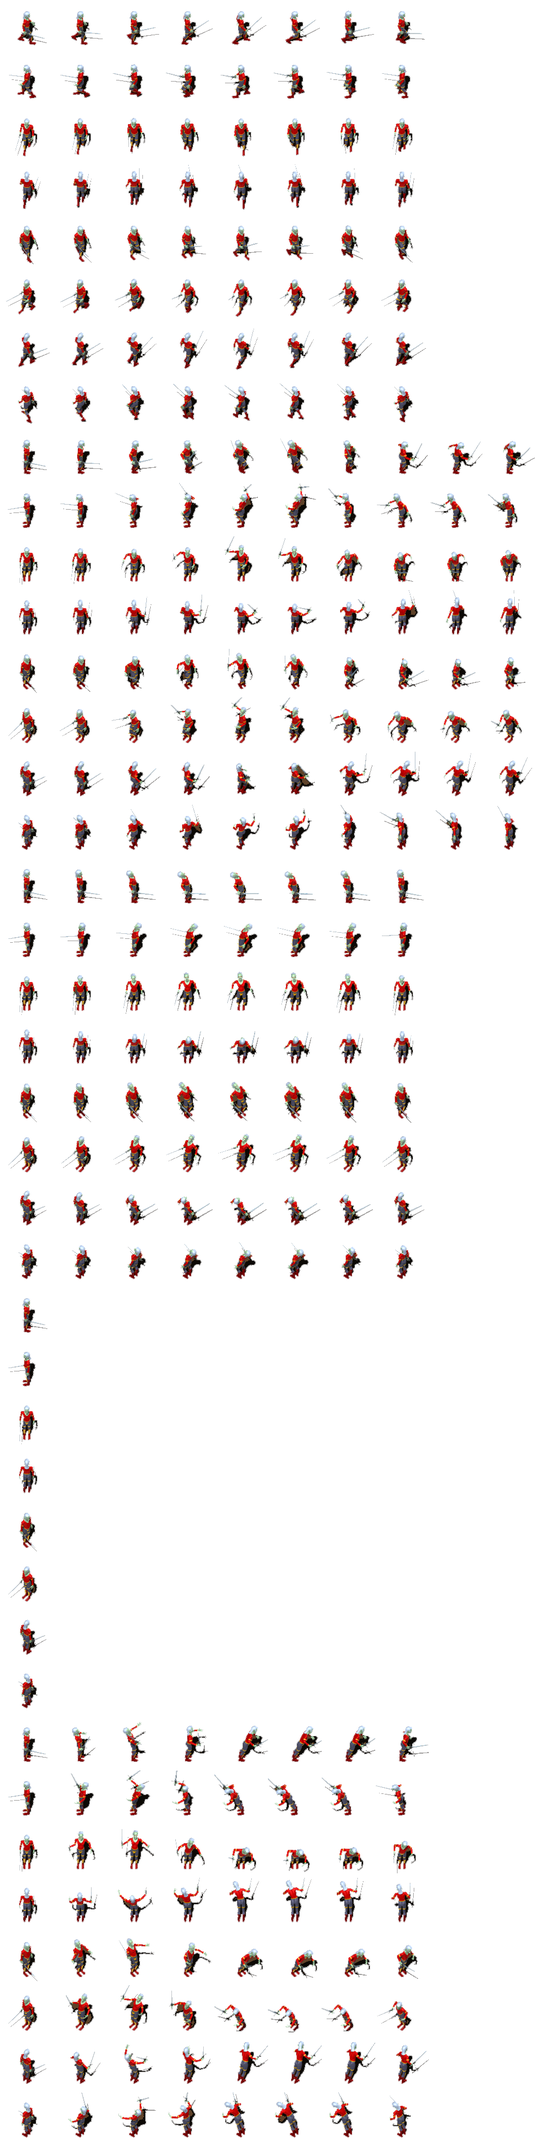
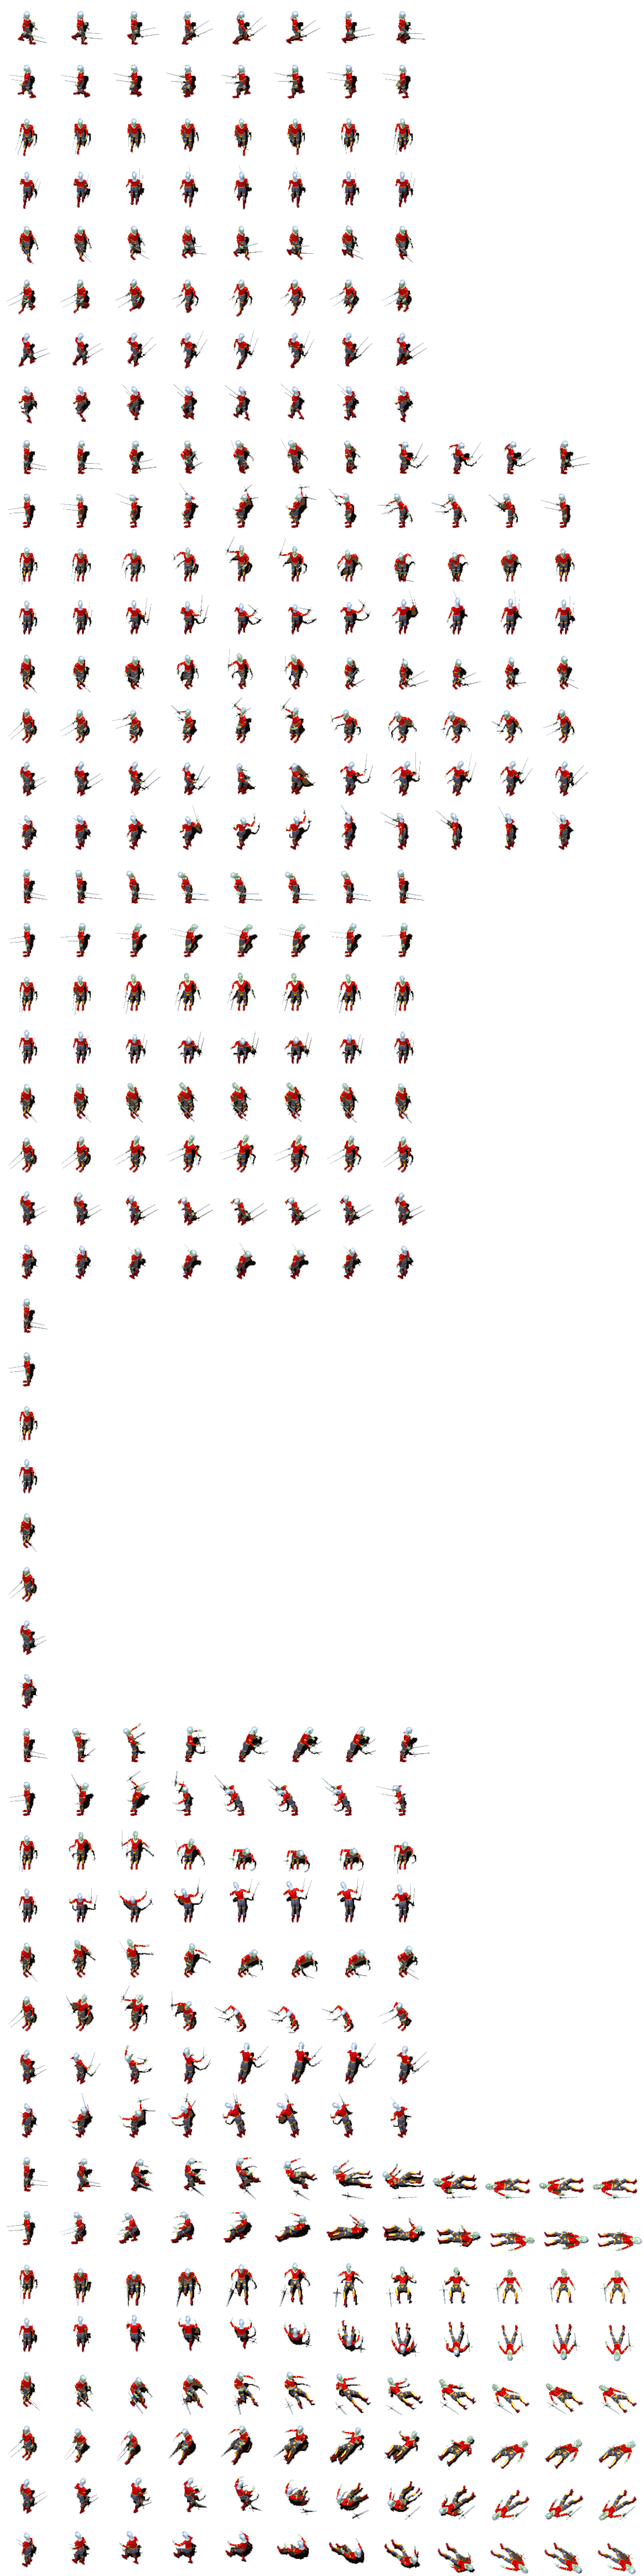
Character animation added (sorcerer)
-Moves
-Attack
-Hits
-Idles

diff --git a/RPG-Game/Diablo/GUI/Player.cs b/RPG-Game/Diablo/GUI/Player.cs
@@ -13,6 +13,8 @@ namespace Diablo.GUI
         float playerSpeed = 100f;
         private bool attacking = false;
         private bool isHitted = false;
+        private bool isDead = false;
+        private bool castSPell = false;
 
         public Player(Vector2 position)
             : base(position)
@@ -26,22 +28,22 @@ namespace Diablo.GUI
             this.AddAnimation(8, (5 * FrameHeight), 0, AnimationType.MoveDownLeft, FrameWidth, FrameHeight, new Vector2(0, 0));
             this.AddAnimation(8, (6 * FrameHeight), 0, AnimationType.MoveUpRight, FrameWidth, FrameHeight, new Vector2(0, 0));
             this.AddAnimation(8, (7 * FrameHeight), 0, AnimationType.MoveUpLeft, FrameWidth, FrameHeight, new Vector2(0, 0));
-            this.AddAnimation(11, (8 * FrameHeight), 0, AnimationType.AttackRight, FrameWidth, FrameHeight, new Vector2(0, 0));
-            this.AddAnimation(11, (9 * FrameHeight), 0, AnimationType.AttackLeft, FrameWidth, FrameHeight, new Vector2(0, 0));
-            this.AddAnimation(11, (10 * FrameHeight), 0, AnimationType.AttackDown, FrameWidth, FrameHeight, new Vector2(0, 0));
-            this.AddAnimation(11, (11 * FrameHeight), 0, AnimationType.AttackUp, FrameWidth, FrameHeight, new Vector2(0, 0));
-            this.AddAnimation(11, (12 * FrameHeight), 0, AnimationType.AttackDownRight, FrameWidth, FrameHeight, new Vector2(0, 0));
-            this.AddAnimation(11, (13 * FrameHeight), 0, AnimationType.AttackDownLeft, FrameWidth, FrameHeight, new Vector2(0, 0));
-            this.AddAnimation(11, (14 * FrameHeight), 0, AnimationType.AttackUpRight, FrameWidth, FrameHeight, new Vector2(0, 0));
-            this.AddAnimation(11, (15 * FrameHeight), 0, AnimationType.AttackUpLeft, FrameWidth, FrameHeight, new Vector2(0, 0));
-            this.AddAnimation(8, (16 * FrameHeight), 0, AnimationType.HittedRight, FrameWidth, FrameHeight, new Vector2(0, 0));
-            this.AddAnimation(8, (17 * FrameHeight), 0, AnimationType.HittedLeft, FrameWidth, FrameHeight, new Vector2(0, 0));
-            this.AddAnimation(8, (18 * FrameHeight), 0, AnimationType.HittedDown, FrameWidth, FrameHeight, new Vector2(0, 0));
-            this.AddAnimation(8, (19 * FrameHeight), 0, AnimationType.HittedUp, FrameWidth, FrameHeight, new Vector2(0, 0));
-            this.AddAnimation(8, (20 * FrameHeight), 0, AnimationType.HittedDownRight, FrameWidth, FrameHeight, new Vector2(0, 0));
-            this.AddAnimation(8, (21 * FrameHeight), 0, AnimationType.HittedDownLeft, FrameWidth, FrameHeight, new Vector2(0, 0));
-            this.AddAnimation(8, (22 * FrameHeight), 0, AnimationType.HittedUpRight, FrameWidth, FrameHeight, new Vector2(0, 0));
-            this.AddAnimation(8, (23 * FrameHeight), 0, AnimationType.HittedUpLeft, FrameWidth, FrameHeight, new Vector2(0, 0));
+            this.AddAnimation(13, (8 * FrameHeight), 0, AnimationType.AttackRight, FrameWidth, FrameHeight, new Vector2(0, 0));
+            this.AddAnimation(13, (9 * FrameHeight), 0, AnimationType.AttackLeft, FrameWidth, FrameHeight, new Vector2(0, 0));
+            this.AddAnimation(13, (10 * FrameHeight), 0, AnimationType.AttackDown, FrameWidth, FrameHeight, new Vector2(0, 0));
+            this.AddAnimation(13, (11 * FrameHeight), 0, AnimationType.AttackUp, FrameWidth, FrameHeight, new Vector2(0, 0));
+            this.AddAnimation(13, (12 * FrameHeight), 0, AnimationType.AttackDownRight, FrameWidth, FrameHeight, new Vector2(0, 0));
+            this.AddAnimation(13, (13 * FrameHeight), 0, AnimationType.AttackDownLeft, FrameWidth, FrameHeight, new Vector2(0, 0));
+            this.AddAnimation(13, (14 * FrameHeight), 0, AnimationType.AttackUpRight, FrameWidth, FrameHeight, new Vector2(0, 0));
+            this.AddAnimation(13, (15 * FrameHeight), 0, AnimationType.AttackUpLeft, FrameWidth, FrameHeight, new Vector2(0, 0));
+            this.AddAnimation(9, (16 * FrameHeight), 0, AnimationType.HittedRight, FrameWidth, FrameHeight, new Vector2(0, 0));
+            this.AddAnimation(9, (17 * FrameHeight), 0, AnimationType.HittedLeft, FrameWidth, FrameHeight, new Vector2(0, 0));
+            this.AddAnimation(9, (18 * FrameHeight), 0, AnimationType.HittedDown, FrameWidth, FrameHeight, new Vector2(0, 0));
+            this.AddAnimation(9, (19 * FrameHeight), 0, AnimationType.HittedUp, FrameWidth, FrameHeight, new Vector2(0, 0));
+            this.AddAnimation(9, (20 * FrameHeight), 0, AnimationType.HittedDownRight, FrameWidth, FrameHeight, new Vector2(0, 0));
+            this.AddAnimation(9, (21 * FrameHeight), 0, AnimationType.HittedDownLeft, FrameWidth, FrameHeight, new Vector2(0, 0));
+            this.AddAnimation(9, (22 * FrameHeight), 0, AnimationType.HittedUpRight, FrameWidth, FrameHeight, new Vector2(0, 0));
+            this.AddAnimation(9, (23 * FrameHeight), 0, AnimationType.HittedUpLeft, FrameWidth, FrameHeight, new Vector2(0, 0));
             this.AddAnimation(1, (24 * FrameHeight), 0, AnimationType.IdleRight, FrameWidth, FrameHeight, new Vector2(0, 0));
             this.AddAnimation(1, (25 * FrameHeight), 0, AnimationType.IdleLeft, FrameWidth, FrameHeight, new Vector2(0, 0));
             this.AddAnimation(1, (26 * FrameHeight), 0, AnimationType.IdleDown, FrameWidth, FrameHeight, new Vector2(0, 0));
@@ -57,7 +59,7 @@ namespace Diablo.GUI
 
         public void LoadContentent(ContentManager contentManager)
         {
-            this.sTexture = contentManager.Load<Texture2D>(@"res/characters/rogue.png");
+            this.sTexture = contentManager.Load<Texture2D>(@"res/characters/sorcerer.png");
         }
         public override void Update(GameTime gameTime)
         {
@@ -74,7 +76,7 @@ namespace Diablo.GUI
         }
         private void HandleInput(KeyboardState keyState)
         {
-            if (!attacking && !isHitted)
+            if (!attacking && !isHitted&&!isDead)
             {
                 if (keyState.IsKeyDown(Keys.W))
                 {
@@ -165,7 +167,7 @@ namespace Diablo.GUI
                     }
                 }
             }
-            if (keyState.IsKeyDown(Keys.Space) && !isHitted)
+            if (keyState.IsKeyDown(Keys.Space) && !isHitted && !isDead)
             {
                 if (this.currentAnimation.ToString().Contains("Up"))
                 {
@@ -215,7 +217,7 @@ namespace Diablo.GUI
                 }
                 this.attacking = true;
             }
-            else if (!attacking && !isHitted)
+            else if (!attacking && !isHitted && !isDead)
             {
                 if (this.currentAnimation.ToString().Contains("Up"))
                 {
@@ -256,7 +258,7 @@ namespace Diablo.GUI
                     this.PlayAnimation(AnimationType.IdleLeft);
                 }
             }
-            else if (isHitted && !attacking)
+            else if (isHitted && !attacking && !isDead)
             {
                 if (this.currentAnimation.ToString().Contains("Up"))
                 {
@@ -304,6 +306,10 @@ namespace Diablo.GUI
                     this.PlayAnimation(AnimationType.HittedLeft);
                     this.currentDirection = Direction.Left;
                 }
+            }
+            else if (isDead)
+            {
+
             }
             this.currentDirection = Direction.None;
             if (keyState.IsKeyDown(Keys.Down))

diff --git a/RPG-Game/Diablo/GUI/AnimationsType.cs b/RPG-Game/Diablo/GUI/AnimationsType.cs
@@ -1,9 +1,4 @@
-using System;
-using System.Collections.Generic;
-using System.Linq;
-using System.Text;
-
-namespace Diablo.GUI
+namespace Diablo.GUI
 {
     enum AnimationType
     {
@@ -38,6 +33,22 @@ namespace Diablo.GUI
         IdleUpLeft,
         IdleUpRight,
         IdledDownLeft,
-        IdleDownRight
+        IdleDownRight,
+        CastSpellUp,
+        CastSpellDown,
+        CastSpellLeft,
+        CastSpellRight,
+        CastSpellUpLeft,
+        CastSpellUpRight,
+        CastSpellDownLeft,
+        CastSpellDownRight,
+        DieUp,
+        DieDown,
+        DieLeft,
+        DieRight,
+        DieUpLeft,
+        DieUpRight,
+        DiedDownLeft,
+        DieDownRight
     }
 }
